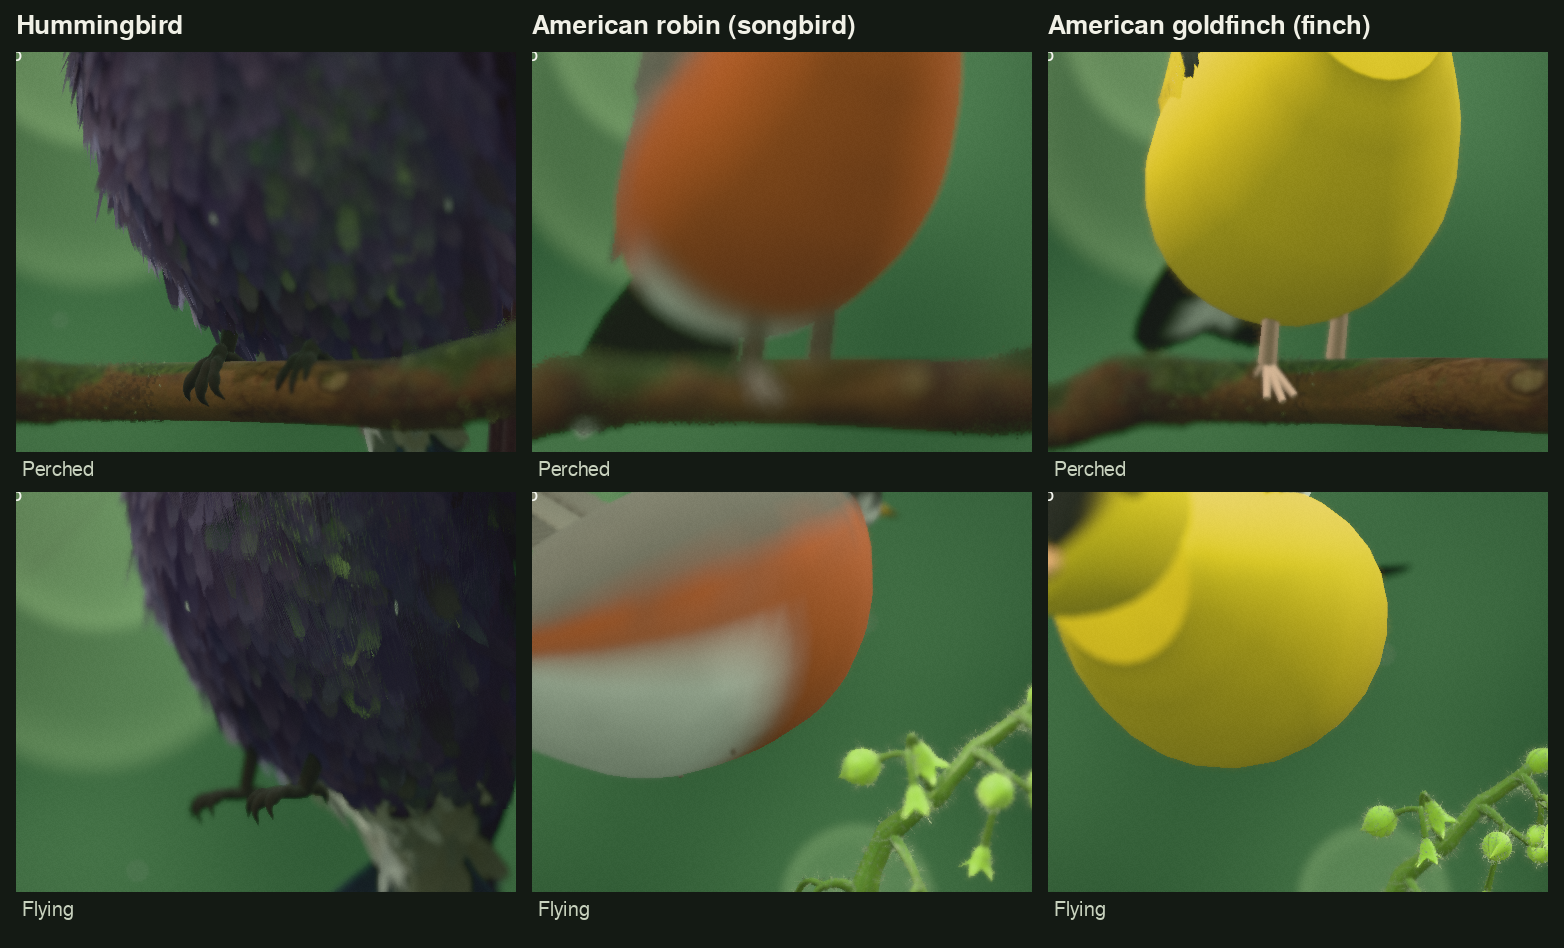
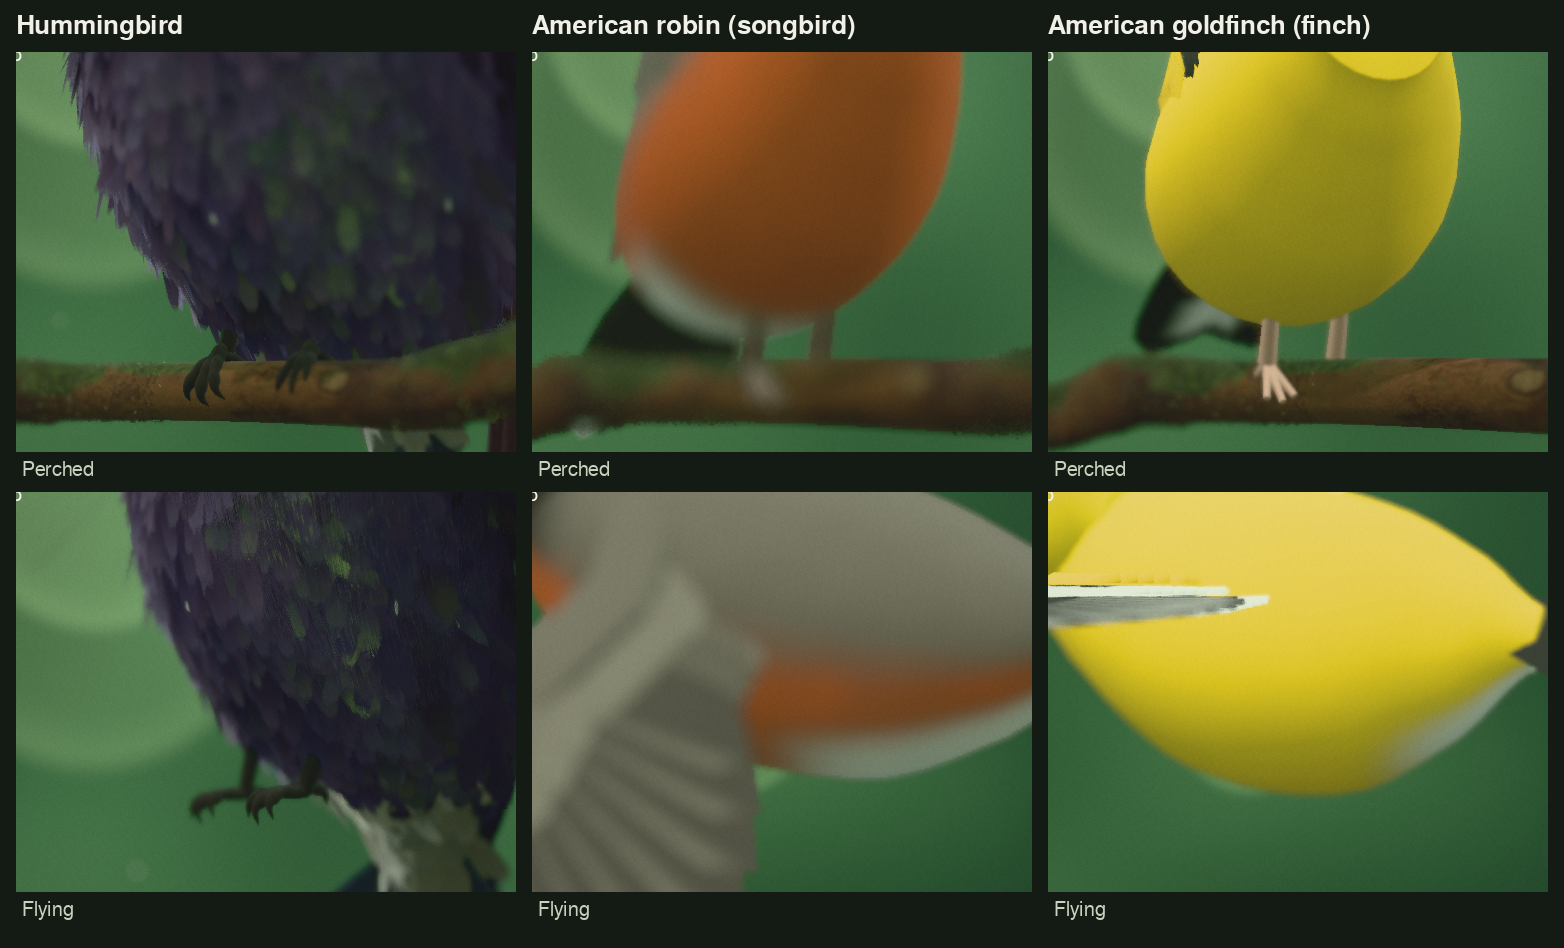
Update screenshot sheet

Changed region(s): [[0.3376, 0.52, 1.0, 0.9483]]

diff --git a/README.md b/README.md
@@ -1,0 +1,30 @@
+# Hummingbird, robin and goldfinch
+
+A real-time Three.js bird scene in one offline HTML file. Open `index.html`, or the live page:
+
+https://allowistic.github.io/hummingbird-scene/
+
+![The three birds, perched and flying](screenshots.png)
+
+## What's in it
+
+- **Hummingbird** (purple-throated mountain-gem): Theo Tillberg's rigged, feathered hummingbird. It now flies a tour round the scene every so often: it darts to three to five points round the twig, hovers at each with its wings a blur, then comes back and lands.
+- **American robin** (the songbird): steady flaps with short glides, hops along the twig, looks about, flicks its tail and sings.
+- **American goldfinch** (the finch): the finch's bounding flight, a burst of flaps then wings shut, rising and dipping. Hops, sings and flicks its tail too.
+- **Bird picker** (bottom right, next to the menu): Hummingbird, Robin, Goldfinch. It swaps the bird on screen and its voice together.
+- **Sound**: the music note in the bird menu (or the S key) turns synthesized bird sound on and off. Made with Web Audio in the page, no audio files.
+- The settings card still has animation speed, time of day, slow camera drift and performance mode, and pause works for every bird. F makes the current bird fly.
+
+## Credits
+
+- Original hummingbird scene, rig, feathers, perch and environment: **Theo Tillberg**, Codevember 2026, day 12, MIT License. https://github.com/ttillberg/codevember-2026/tree/main/12
+- Found via the version ezshine posted on X.
+- Robin and goldfinch: modeled procedurally in code for this build (`source/src/extra/smallBirds.ts`). No third-party models, textures or sounds are used for them.
+- Bird sound: synthesized in the page (`source/src/extra/sound.js`).
+- three.js, MIT License, three.js authors.
+
+## Source
+
+`source/` holds the TypeScript project. Build it with `npm install` then `npx vite build`; the single-file page lands in `dist/index.html`.
+
+MIT License, see `LICENSE`.
